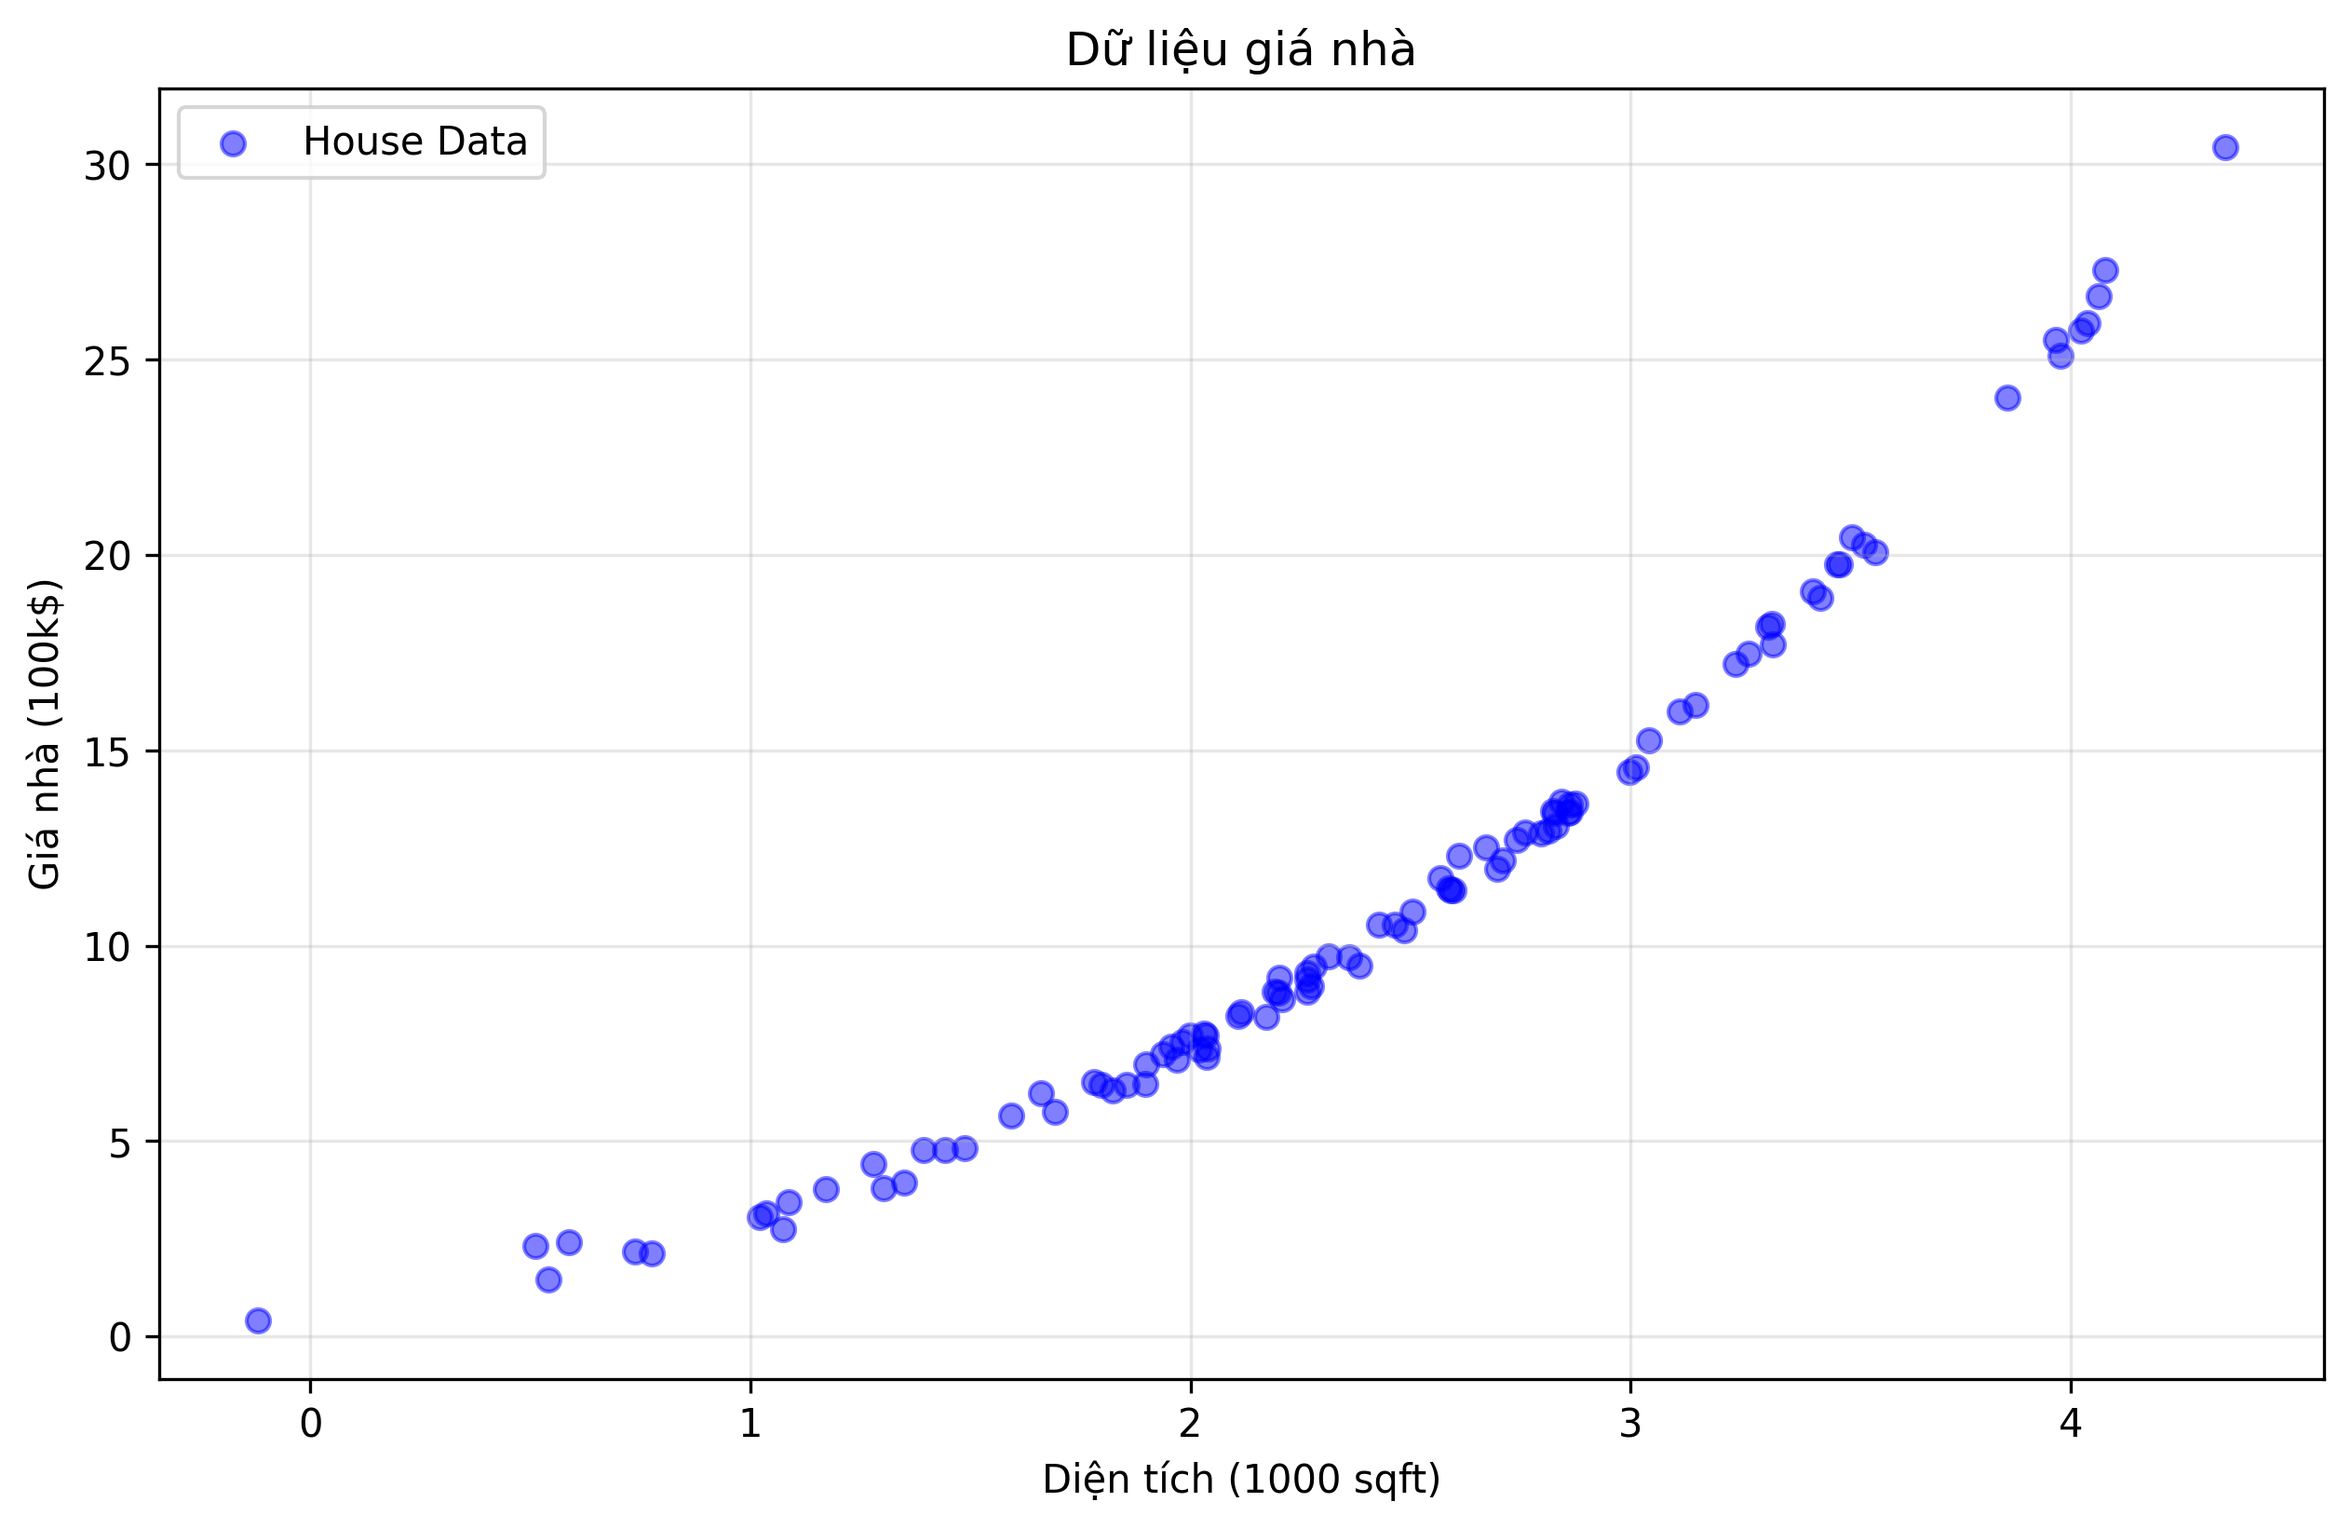
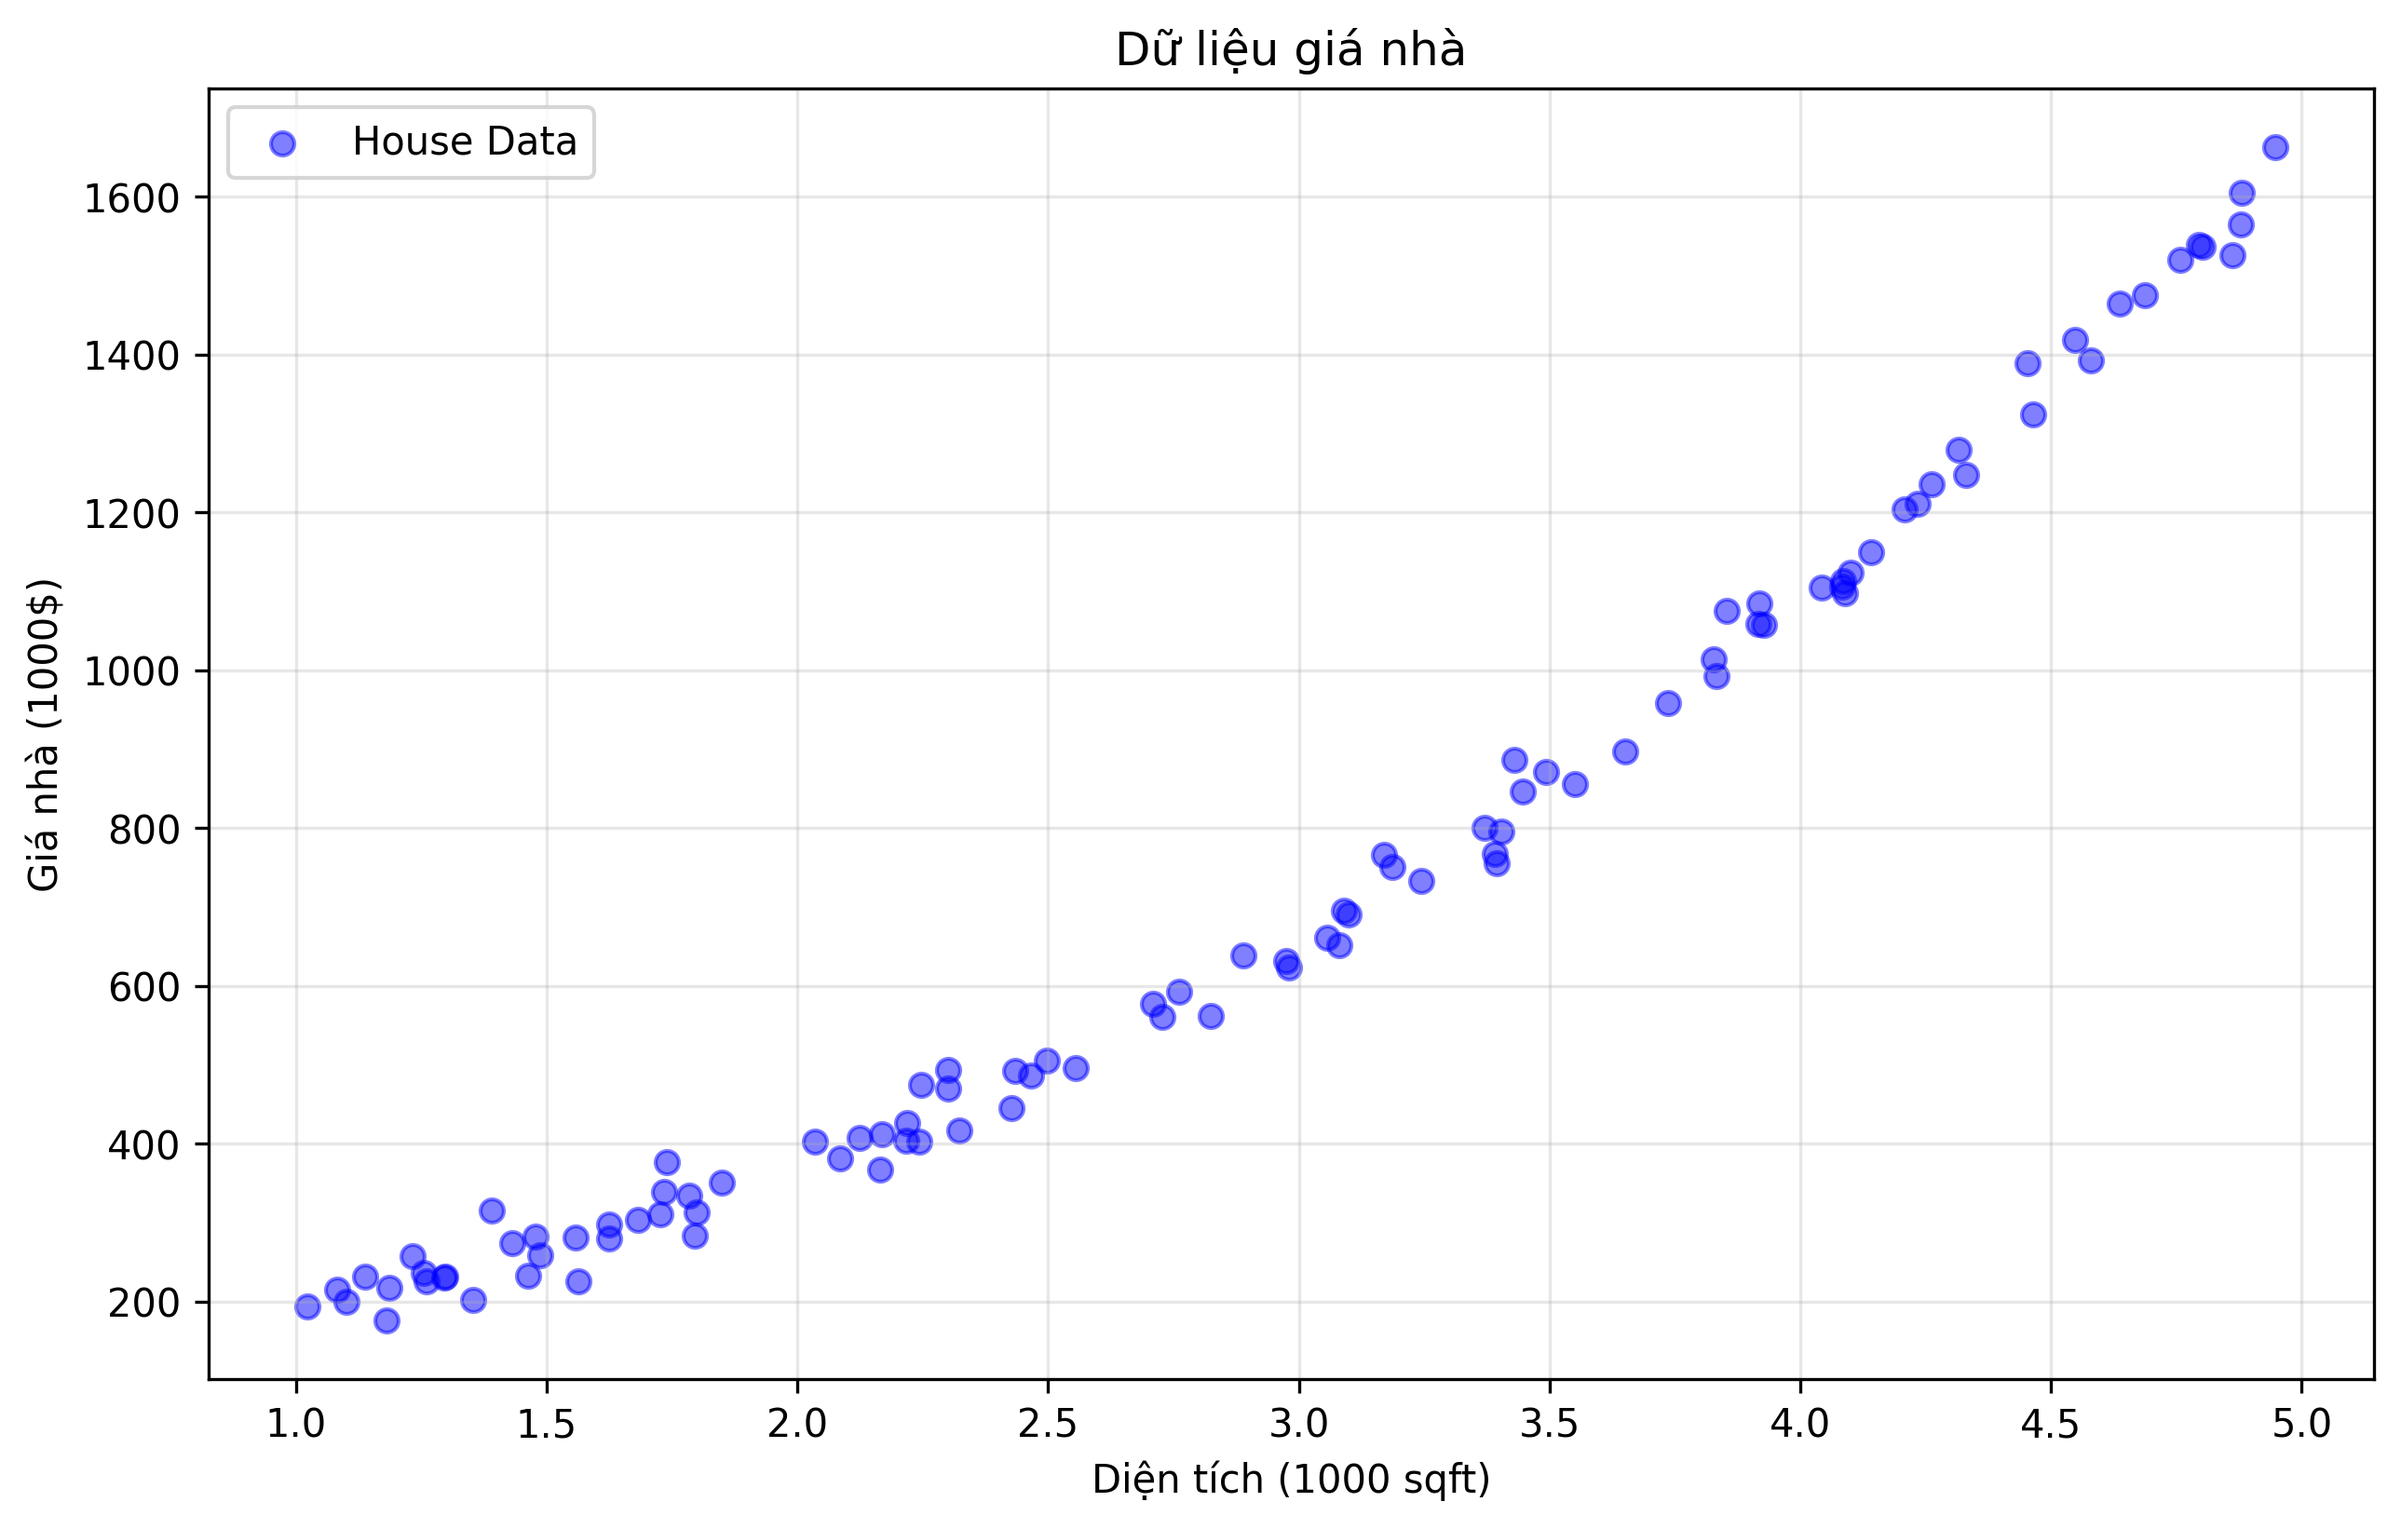
fix: improve polynomial regression stability and visualization

diff --git a/src/calculus_ml/core/polynomial/__init__.py b/src/calculus_ml/core/polynomial/__init__.py
@@ -24,16 +24,22 @@ class PolynomialRegression(RegressionModel):
         super().__init__(learning_rate, num_iterations)
         self.degree = degree
         self.lambda_reg = lambda_reg
+        self.feature_means = None
+        self.feature_stds = None
         
     def _generate_polynomial_features(self, X):
         """Generate polynomial features up to the specified degree."""
         if X.ndim == 1:
             X = X.reshape(-1, 1)
         n_samples, n_features = X.shape
-        X_poly = np.ones((n_samples, 1))
         
-        # Scale X to prevent overflow
-        X_scaled = X / np.max(np.abs(X))
+        # Standardize X first
+        if self.feature_means is None:  # Training phase
+            self.feature_means = np.mean(X, axis=0)
+            self.feature_stds = np.std(X, axis=0) + 1e-8
+        
+        X_scaled = (X - self.feature_means) / self.feature_stds
+        X_poly = np.ones((n_samples, 1))
         
         for d in range(1, self.degree + 1):
             X_poly = np.column_stack((X_poly, X_scaled ** d))
@@ -43,7 +49,7 @@ class PolynomialRegression(RegressionModel):
     def predict(self, X):
         """Make predictions using the trained model."""
         X_poly = self._generate_polynomial_features(X)
-        return np.dot(X_poly, self.weights) + self.bias
+        return np.clip(np.dot(X_poly, self.weights) + self.bias, 0, None)  # Ensure non-negative predictions
     
     def compute_cost(self, X, y):
         """Compute cost with regularization."""
@@ -51,13 +57,13 @@ class PolynomialRegression(RegressionModel):
         y_pred = self.predict(X)
         
         # Compute MSE in a numerically stable way
-        squared_errors = np.clip((y_pred - y)**2, 0, 1e10)  # Prevent overflow
+        squared_errors = np.clip((y_pred - y)**2, 0, 1e10)
         mse = np.mean(squared_errors)
         
-        # Compute regularization term
-        reg_term = self.lambda_reg * np.mean(np.clip(self.weights**2, 0, 1e10))
+        # Compute regularization term with scaling
+        reg_term = self.lambda_reg * np.mean(self.weights**2) / (2 * m)
         
-        return mse/2 + reg_term/2
+        return mse/2 + reg_term
     
     def compute_gradient(self, X, y):
         """Compute gradients with regularization."""
@@ -65,14 +71,16 @@ class PolynomialRegression(RegressionModel):
         X_poly = self._generate_polynomial_features(X)
         y_pred = self.predict(X)
         
-        # Clip predictions to prevent overflow
-        errors = np.clip(y_pred - y, -1e10, 1e10)
-        
         # Compute gradients with numerical stability
+        errors = y_pred - y
         dw = np.mean(X_poly * errors[:, np.newaxis], axis=0)
-        dw += self.lambda_reg * np.clip(self.weights, -1e10, 1e10) / m
+        dw += (self.lambda_reg * self.weights) / m
         
         db = np.mean(errors)
+        
+        # Clip gradients to prevent explosion
+        dw = np.clip(dw, -1e10, 1e10)
+        db = np.clip(db, -1e10, 1e10)
         
         return dw, db
 
@@ -81,8 +89,8 @@ class PolynomialRegression(RegressionModel):
         # Generate polynomial features
         X_poly = self._generate_polynomial_features(X)
         
-        # Initialize parameters
-        self.weights = np.zeros(X_poly.shape[1])
+        # Initialize parameters with small random values
+        self.weights = np.random.randn(X_poly.shape[1]) * 0.01
         self.bias = 0
         self.cost_history = []
         
@@ -92,18 +100,18 @@ class PolynomialRegression(RegressionModel):
             # Forward pass
             y_pred = self.predict(X)
             
-            # Compute gradients with regularization
+            # Compute gradients
             dw, db = self.compute_gradient(X, y)
             
-            # Update parameters
-            self.weights -= self.learning_rate * dw
-            self.bias -= self.learning_rate * db
+            # Update parameters with gradient clipping
+            self.weights -= np.clip(self.learning_rate * dw, -1.0, 1.0)
+            self.bias -= np.clip(self.learning_rate * db, -1.0, 1.0)
             
-            # Compute cost with regularization
+            # Compute cost
             cost = self.compute_cost(X, y)
             self.cost_history.append(cost)
             
-            # Early stopping if cost change is very small
+            # Early stopping if cost is very small or not changing
             if i > 0 and abs(self.cost_history[-1] - self.cost_history[-2]) < 1e-8:
                 break
                 

diff --git a/src/calculus_ml/examples/polynomial_example.py b/src/calculus_ml/examples/polynomial_example.py
@@ -13,9 +13,13 @@ import matplotlib.pyplot as plt
 def generate_nonlinear_data(n_samples=100, noise=0.3):
     """Generate synthetic nonlinear data."""
     np.random.seed(42)
-    X = np.random.normal(2.5, 1.0, n_samples)
-    y = 0.5 + 1.5*X + 0.8*X**2 + 0.1*X**3
-    y += noise * np.random.randn(n_samples)
+    # Generate positive X values between 1 and 5 (1000 sqft)
+    X = np.random.uniform(1.0, 5.0, n_samples)
+    # Generate y with stronger polynomial relationship
+    y = 50 + 100*X + 20*X**2 + 5*X**3
+    y += noise * np.random.randn(n_samples) * 100  # Scale noise appropriately
+    # Ensure non-negative house prices
+    y = np.clip(y, 0, None)
     return X, y
 
 def run_polynomial_comparison():
@@ -46,15 +50,28 @@ def run_regularization_example(base_model):
     # Generate data
     X, y = generate_nonlinear_data(noise=0.5)  # More noise
     
-    # Train models with different lambda values
-    lambdas = [0.0, 0.1, 10.0]
+    # Train models with different lambda values - using smaller values
+    lambdas = [0.0, 0.01, 1.0]  # Changed from [0.0, 0.1, 10.0]
     models = []
     
+    # Sort X for consistent testing
+    X_test = np.linspace(1.0, 5.0, 10)
+    print("\nTesting predictions for different lambda values:")
+    print("X (diện tích) | λ=0.0 | λ=0.01 | λ=1.0")
+    print("-" * 45)
+    
+    # Train models and store predictions
+    predictions = []
     for lambda_reg in lambdas:
         model = PolynomialRegression(degree=4, lambda_reg=lambda_reg,
                                    learning_rate=0.01, num_iterations=1000)
         model.fit(X, y)
         models.append(model)
+        predictions.append(model.predict(X_test))
+    
+    # Print predictions for inspection
+    for i, x in enumerate(X_test):
+        print(f"{x:12.1f} | {predictions[0][i]:6.0f} | {predictions[1][i]:7.0f} | {predictions[2][i]:6.0f}")
     
     # Plot regularization effect
     plot_regularization_effect(
@@ -70,14 +87,14 @@ def plot_house_price_data(X, y, save_path='images/house_price_data.png'):
     X : ndarray of shape (n_samples, 1)
         House sizes in 1000 sqft
     y : ndarray of shape (n_samples,)
-        House prices in 100k$
+        House prices in 1000$
     save_path : str
         Path to save the plot
     """
     plt.figure(figsize=(10, 6))
     plt.scatter(X, y, color='blue', alpha=0.5, label='House Data')
     plt.xlabel('Diện tích (1000 sqft)')
-    plt.ylabel('Giá nhà (100k$)')
+    plt.ylabel('Giá nhà (1000$)')
     plt.title('Dữ liệu giá nhà')
     plt.legend()
     plt.grid(True, alpha=0.3)

diff --git a/src/calculus_ml/visualization/polynomial/__init__.py b/src/calculus_ml/visualization/polynomial/__init__.py
@@ -12,9 +12,9 @@ def plot_polynomial_comparison(X, y, models, degrees, save_path=None):
     Parameters
     ----------
     X : array-like
-        Input features
+        Input features (house sizes in 1000 sqft)
     y : array-like
-        Target values
+        Target values (house prices in 1000$)
     models : list of PolynomialRegression
         Fitted models with different degrees
     degrees : list of int
@@ -53,9 +53,9 @@ def plot_regularization_effect(X, y, models, lambdas, save_path=None):
     Parameters
     ----------
     X : array-like
-        Input features
+        Input features (house sizes in 1000 sqft)
     y : array-like
-        Target values
+        Target values (house prices in 1000$)
     models : list of PolynomialRegression
         Fitted models with different lambda values
     lambdas : list of float
